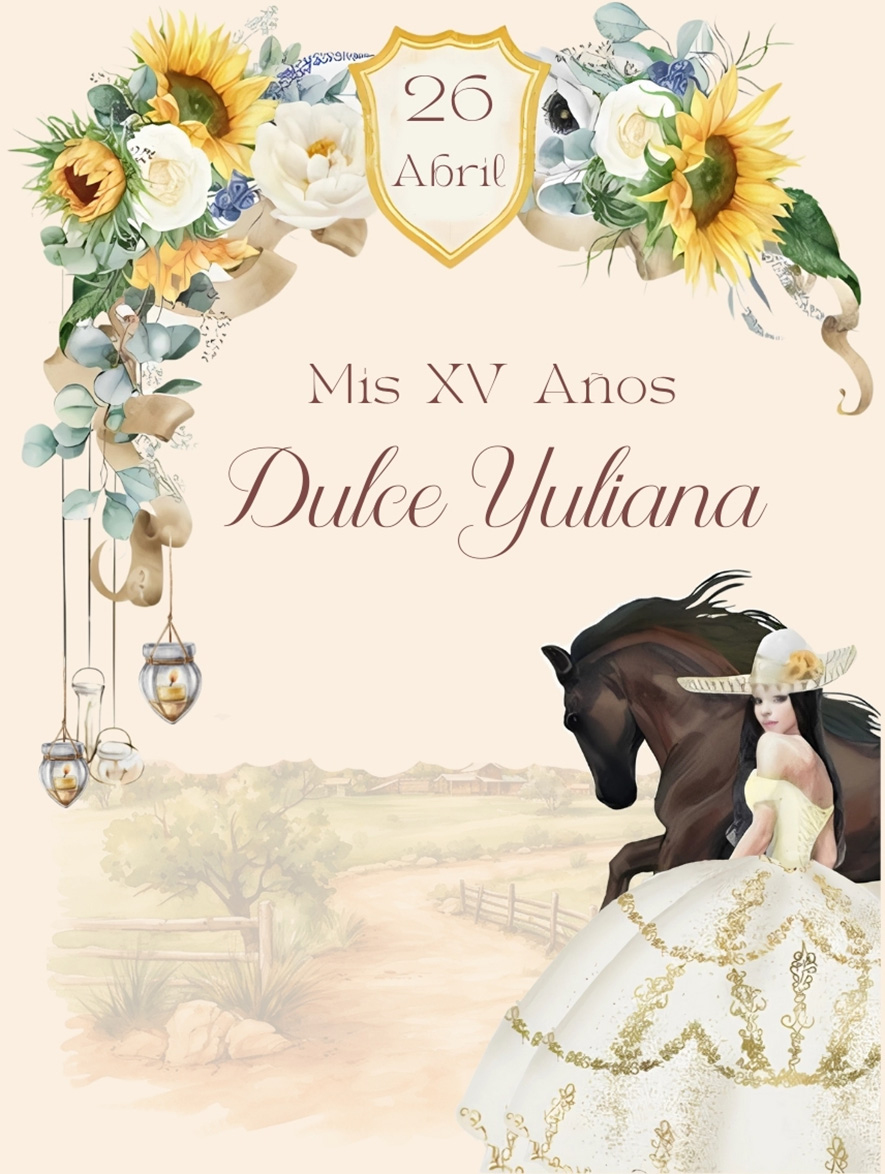
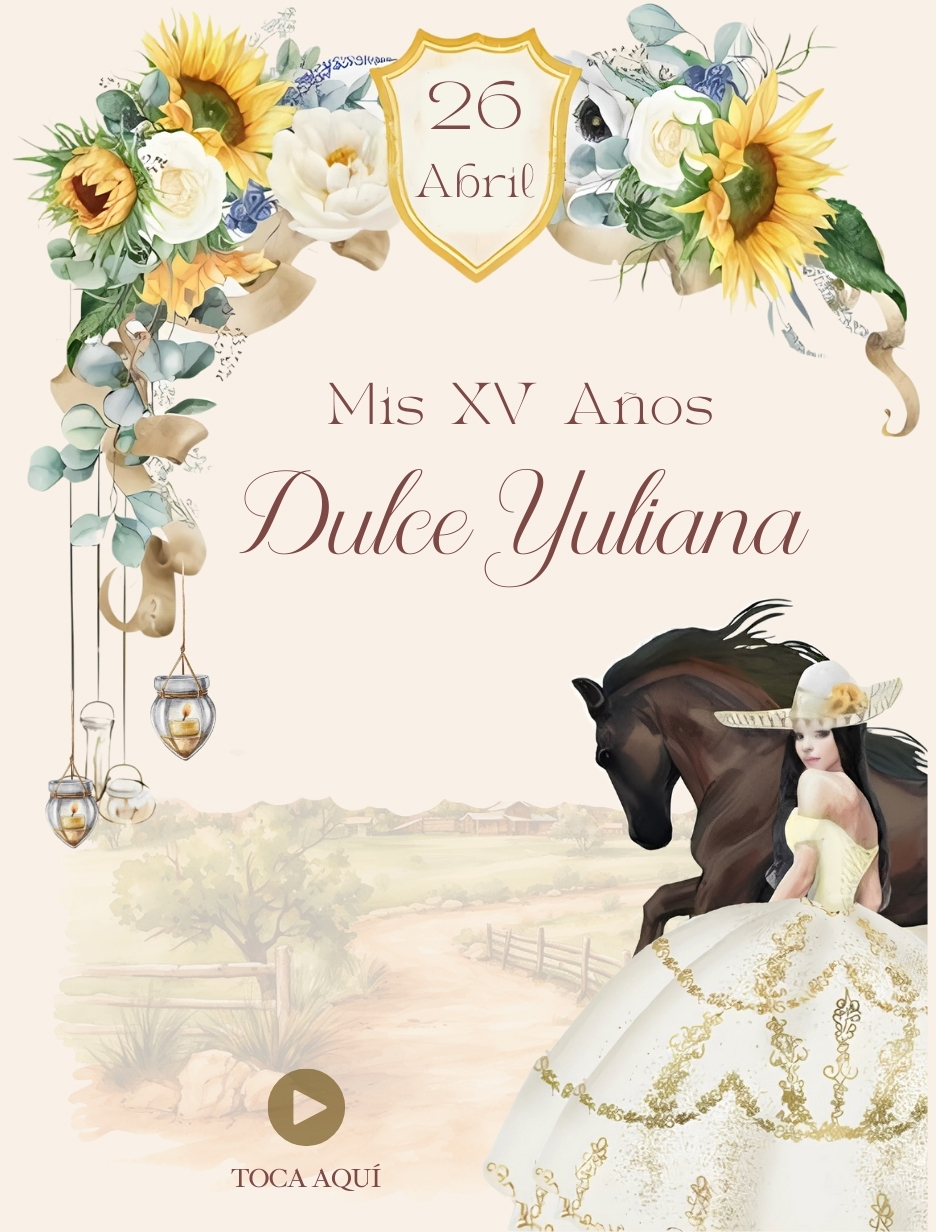
Added button tu play music

diff --git a/index.html b/index.html
@@ -15,20 +15,31 @@
       <script src="https://cdnjs.cloudflare.com/ajax/libs/howler/2.2.1/howler.min.js"></script>
       <script>
         var sound = new Howl({
-          src: ["public/assets/audio/PECA DE BONITA KARAOKE.mp3"],
-          autoplay: true,
-          loop: true,
-          volume: 1,
-          onplayerror: function () {
-            console.log("Error al intentar reproducir el audio");
-          },
+            src: ["public/assets/audio/PECA DE BONITA KARAOKE.mp3"],
+            loop: true,
+            volume: 1,
+            onplayerror: function () {
+                console.log("Error al intentar reproducir el audio");
+            },
         });
-        sound.play();
-      </script>
+    
+        function reproducirAudio() {
+            sound.play();
+            
+            // Deshabilita el evento de clic removiendo el onclick
+            document.getElementById("btnReproducir").onclick = null;
+            
+            // Opcional: Cambia el cursor para indicar que ya no es clickeable
+            document.getElementById("btnReproducir").style.cursor = "default";
+        }
+    </script>
       <div class="container-fluid p-0">
         <div class="text-center" style="background-color: rgb(249, 241, 231)">
-          <img src="public/assets/Home.jpg" class="img-fluid d-block d-md-none w-100 mx-auto" alt="Home" />
-          <img src="public/assets/Home.jpg" class="img-fluid d-none d-md-block mx-auto" alt="Home" />
+          <img src="public/assets/Home.jpg" class="img-fluid d-block d-md-none w-100 mx-auto" usemap="#reproducir" alt="Home" />
+          <img src="public/assets/Home.jpg" class="img-fluid d-none d-md-block mx-auto" usemap="#reproducir" alt="Home" />
+          <map name="reproducir">
+            <area id="btnReproducir" style="cursor: pointer;" target="" alt="Reproducir" title="Reproducir" onclick="reproducirAudio()" coords="226,1063,387,1194" shape="rect">
+        </map>
         </div>
         <div class="text-center" style="background-color: rgb(255, 255, 255)">
           <img src="public/assets/Our Story.jpg" class="img-fluid d-block d-md-none w-100 mx-auto" alt="Our Story" />
